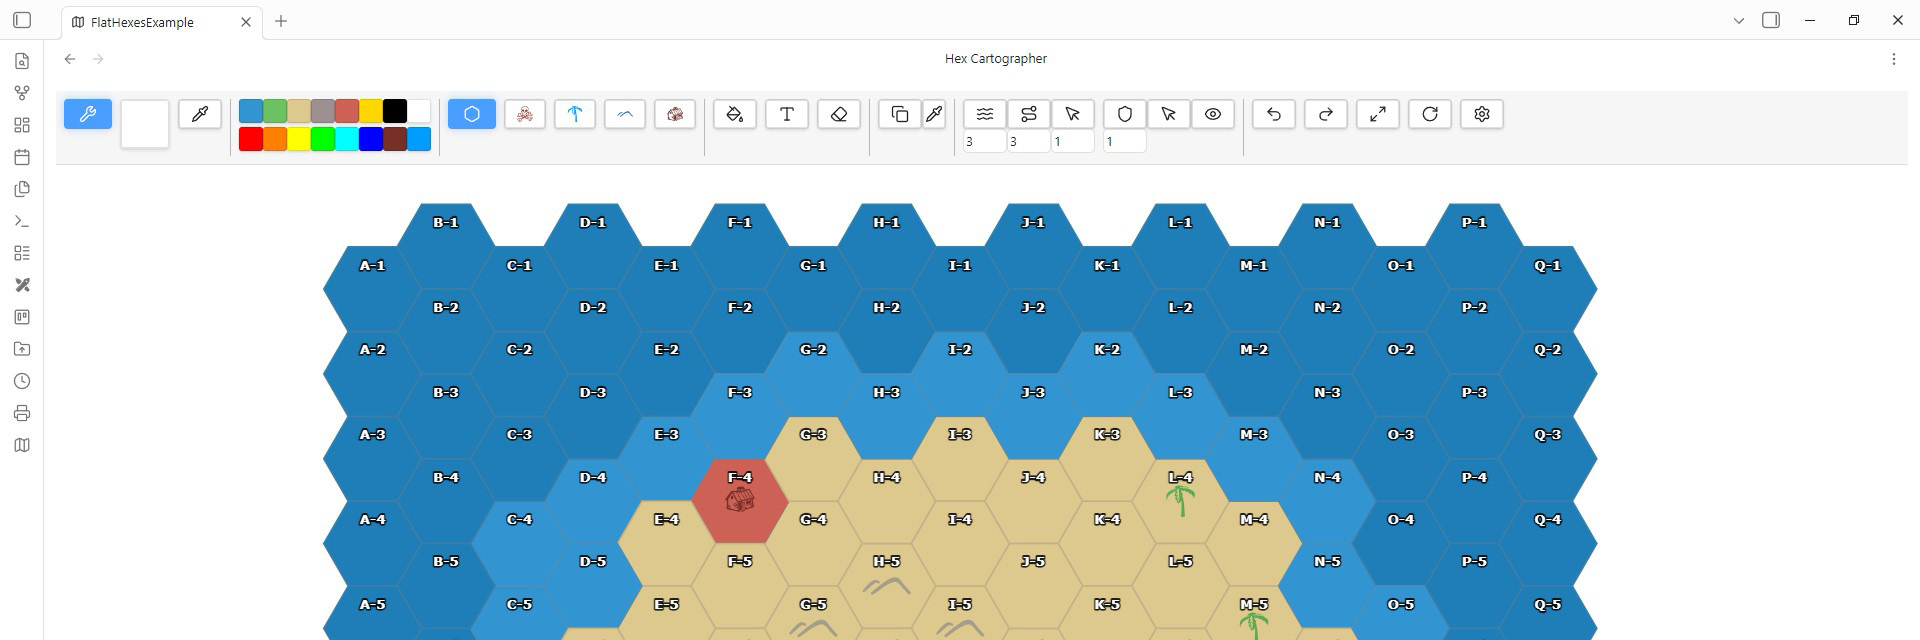
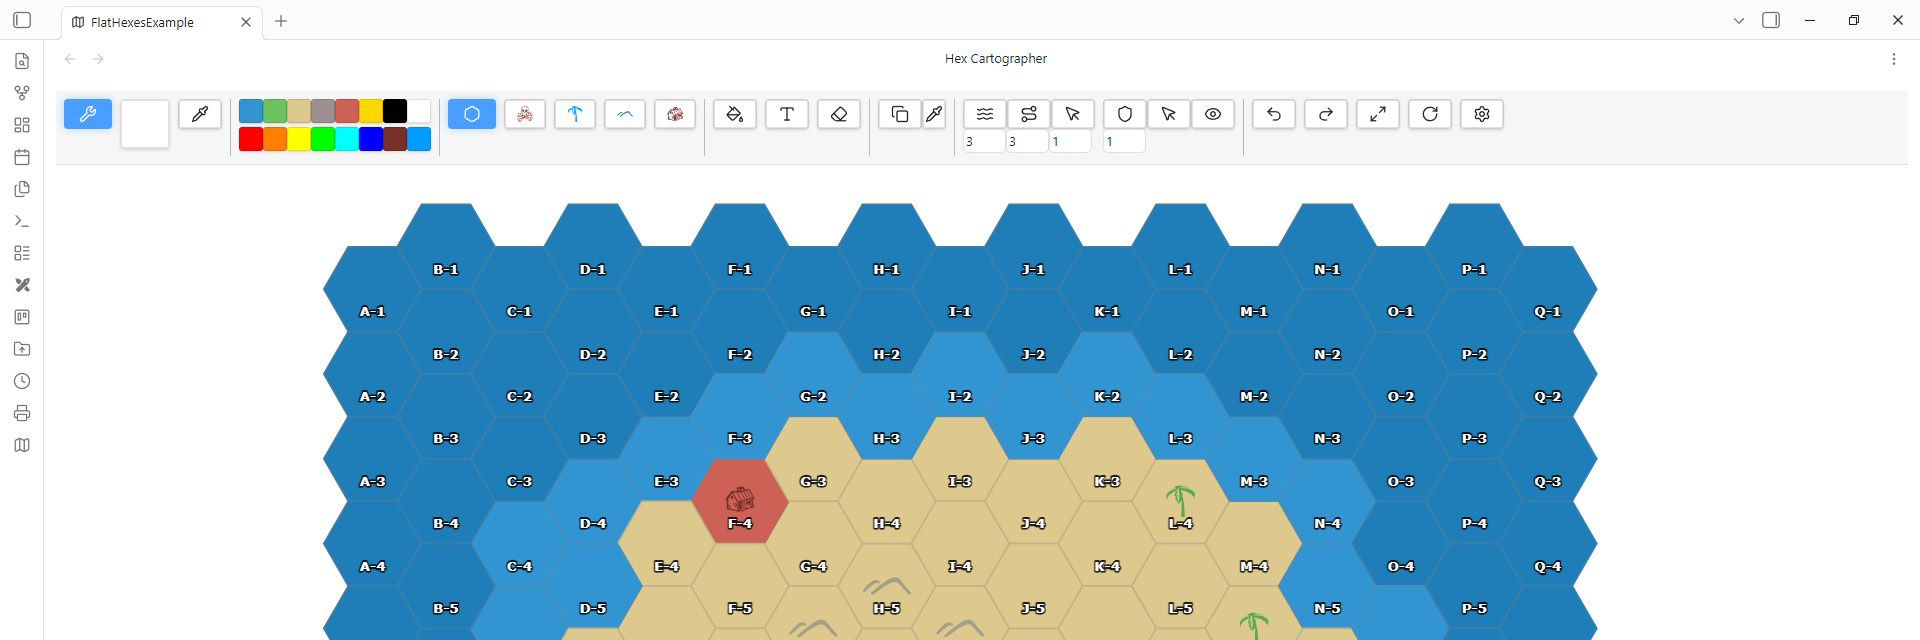
Readme Update

diff --git a/README.md b/README.md
@@ -23,10 +23,13 @@ Your finished maps can be printed or exported as high-resolution PNG/JPEG images
 ### Flexible Coordinate System
 
 ![Editor](readmedata/hc_coordinates1.jpg)
+Activate numbering to see hex locations
 
 ![Editor](readmedata/hc_coordinates2.jpg)
+Switch between numbering modes
 
 ![Editor](readmedata/hc_coordinates3.jpg)
+Choose a coordinate position for the hexes
 
 ## Features
 